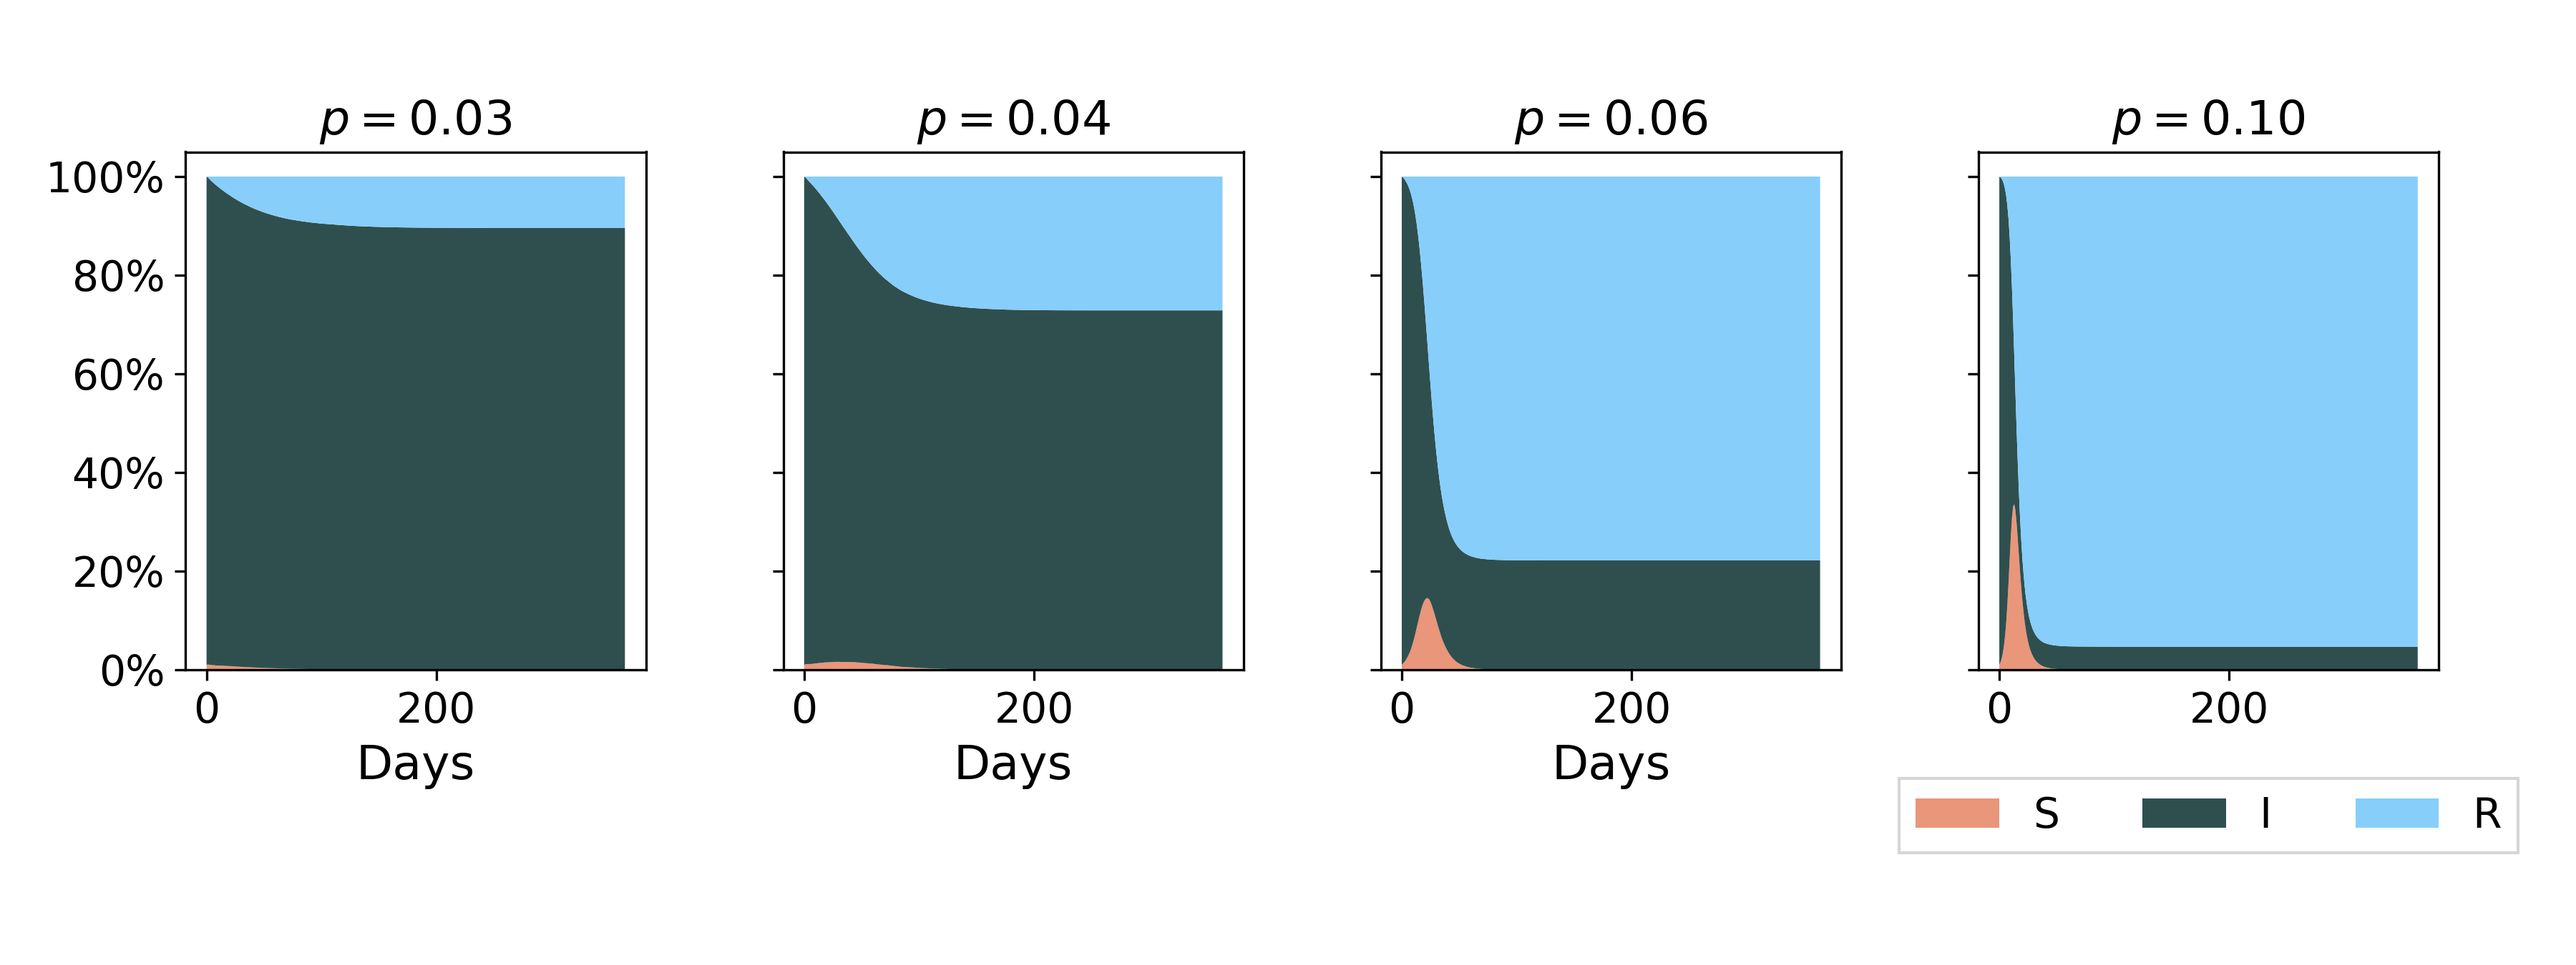
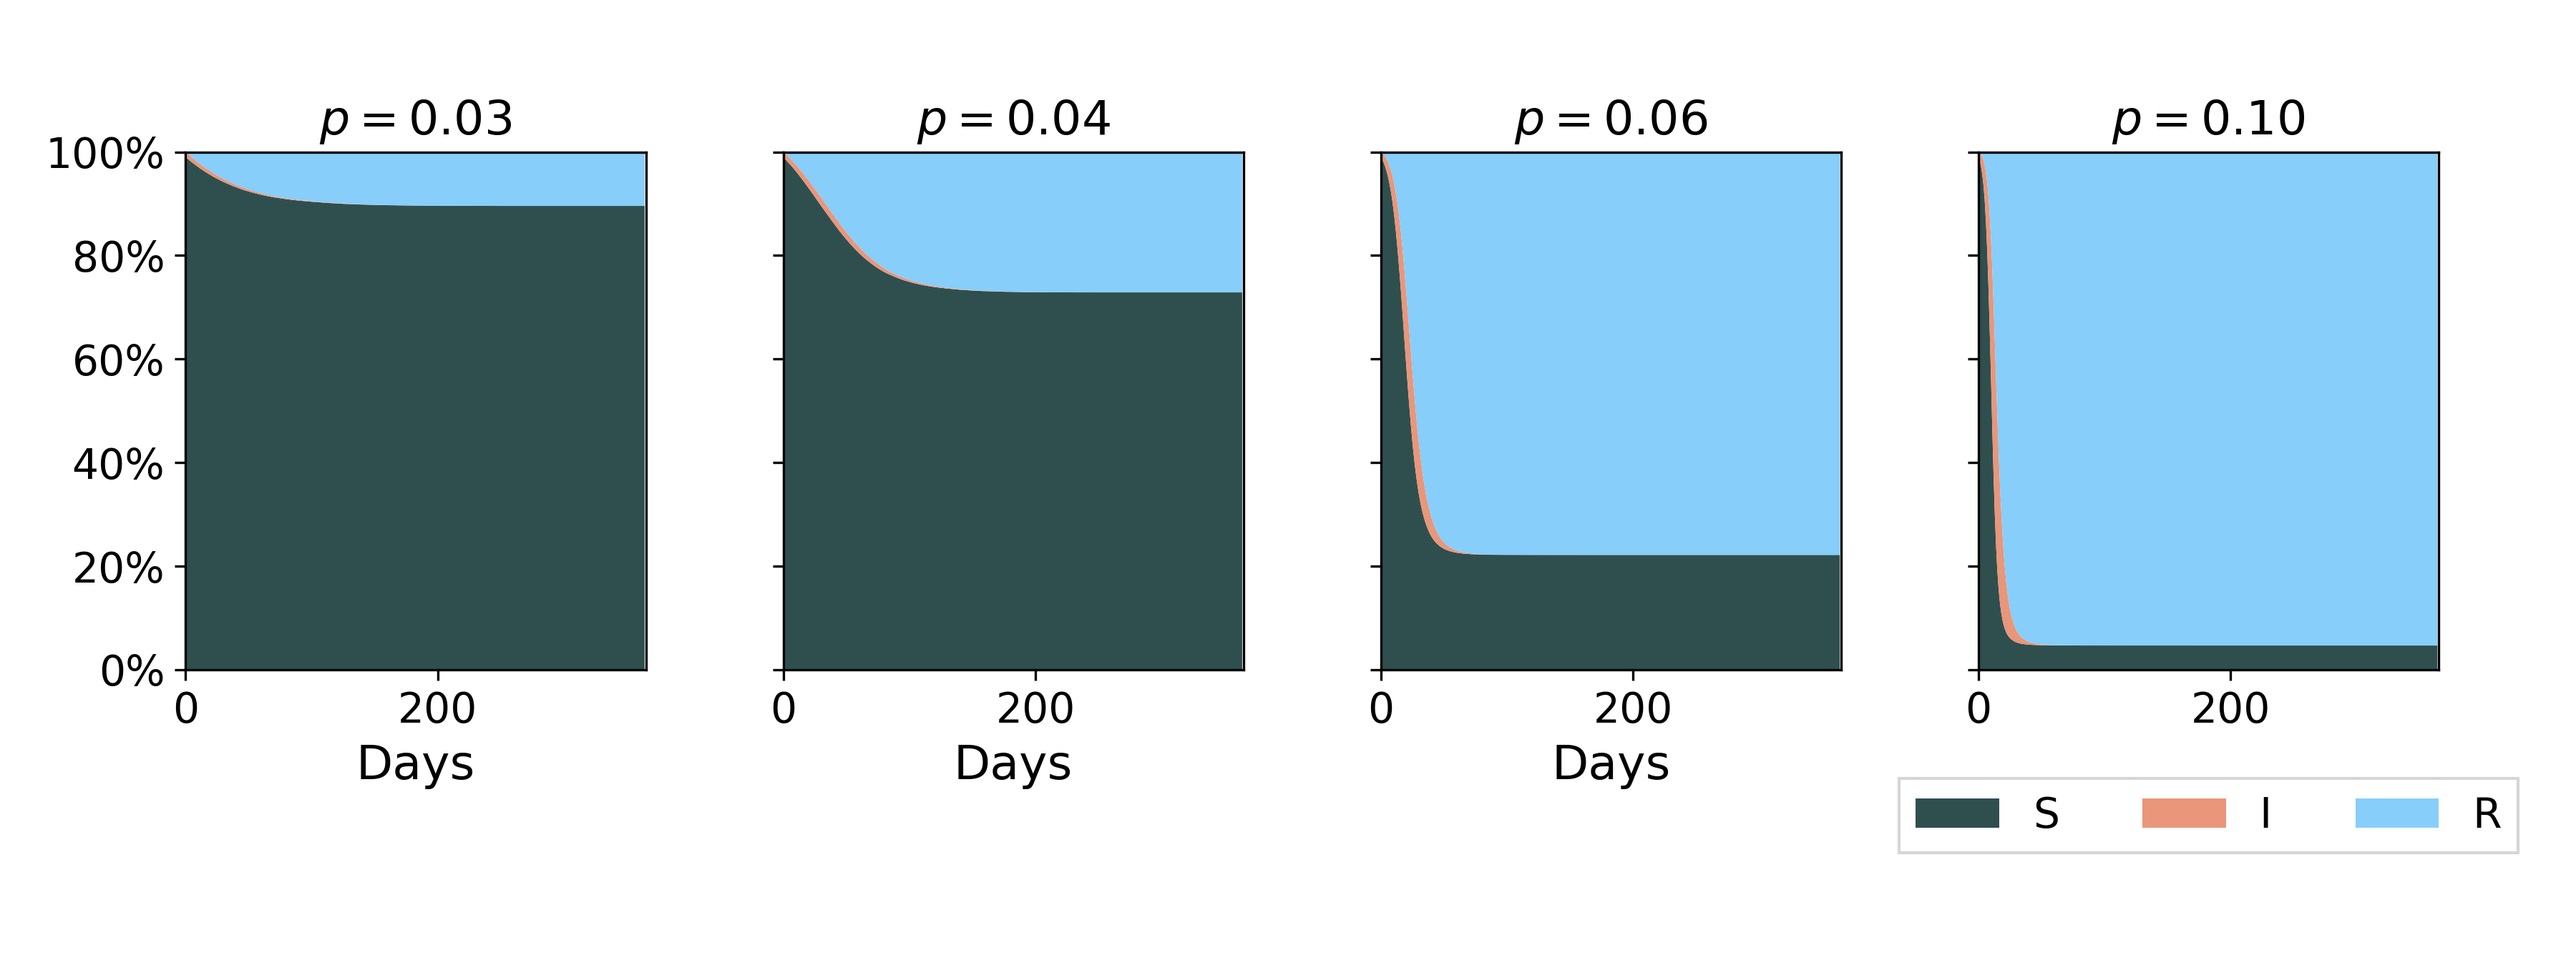
Update plot

diff --git a/Plotter.py b/Plotter.py
@@ -55,13 +55,15 @@ def plot_SIR(pandemic_info, as_percentage=True, stack=True, ax=None):
         S, I, death, surv = S/sum_SIR, I/sum_SIR, death/sum_SIR, surv/sum_SIR
         ax.yaxis.set_major_formatter(mtick.PercentFormatter())
 
-    labels = ["I", "S", "Surv", "Dead"]
-    colors = ["darksalmon", "darkslategray", "lightskyblue", "red"]
+    labels = ["S", "I", "Surv", "Dead"]
+    colors = ["darkslategray", "darksalmon", "lightskyblue", "red"]
     if stack:
-        ax.stackplot(list(range(len(S))), I, S, surv, death, colors=colors, labels=labels)
+        ax.stackplot(list(range(len(S))), S, I, surv, death, colors=colors, labels=labels)
     else:
-        for S, label, color in zip([I, S, surv, death], labels, colors):
+        for S, label, color in zip([S, I, surv, death], labels, colors):
             ax.plot(S, c=color, label=label)
+    ax.set_xlim([0, len(S)])
+    ax.set_ylim([0, 100])
 
 
 def plot_each_group(PI):
